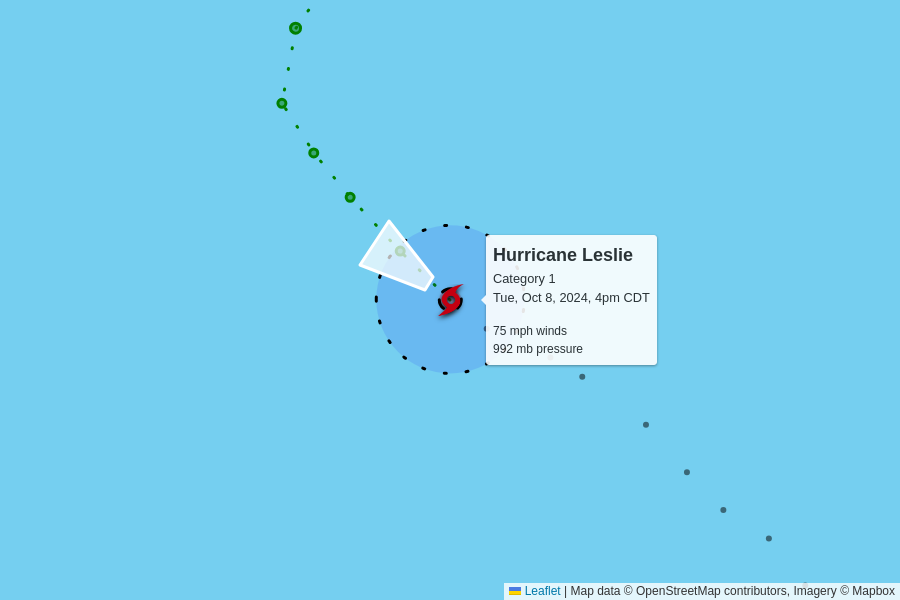
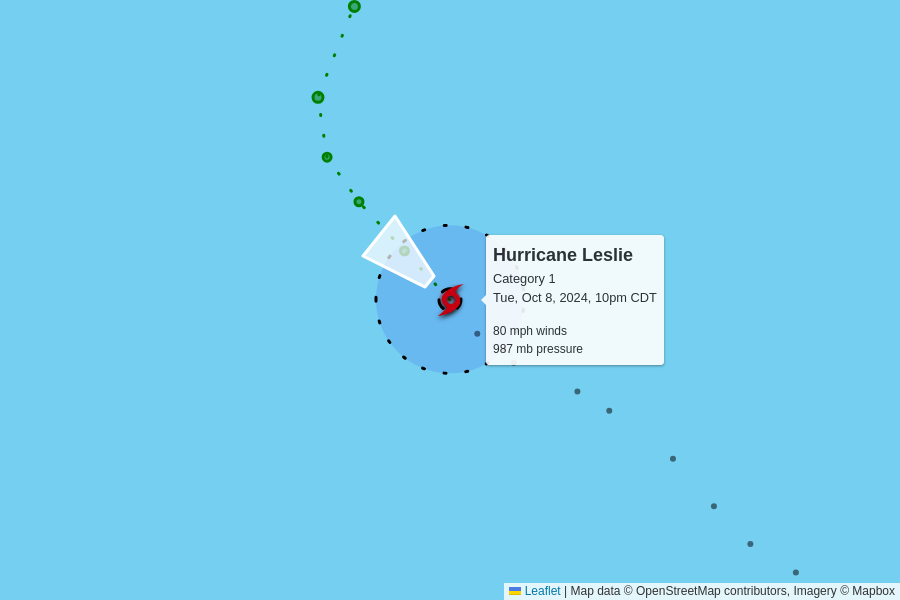
automatic update

diff --git a/docs/index.html b/docs/index.html
@@ -101,10 +101,10 @@
 
     <table>
       <tr>
-        <td colspan="6" class="storm category-5" >
+        <td colspan="6" class="storm category-1" >
           <h2>
-            Hurricane Milton - Category 5
-            <p class="updated">last updated <span data-time>2024-10-09T00:00:00.000Z</span></p>
+            Hurricane Leslie - Category 1
+            <p class="updated">last updated <span data-time>2024-10-09T03:00:00.000Z</span></p>
           </h2>
         </td>
       </tr>
@@ -119,21 +119,21 @@
       </tr>
       <tr>
         <td class="spacer"></td>
-        <td>165 mph<br>0 mph since last update</td>
-        <td>902 mb<br>-3 mb since last update</td>
+        <td>80 mph<br>+5 mph since last update</td>
+        <td>987 mb<br>-5 mb since last update</td>
         <td>
-          10 mph to the east-northeast
+          12 mph to the northwest
           <br/>
-          <span style="display: inline-block; font-size: 1.5em; transform: rotate(70deg);">↑</span>
+          <span style="display: inline-block; font-size: 1.5em; transform: rotate(310deg);">↑</span>
         </td>
-        <td><a href="https://raw.githubusercontent.com/mgwalker/atlantic-hurricanes/main/data/csv/AL142024.csv">AL142024.csv</a></td>
-        <td><a href="https://www.nhc.noaa.gov/archive/2024/MILTON.shtml?">NHC advisories</a></td>
+        <td><a href="https://raw.githubusercontent.com/mgwalker/atlantic-hurricanes/main/data/csv/AL132024.csv">AL132024.csv</a></td>
+        <td><a href="https://www.nhc.noaa.gov/archive/2024/LESLIE.shtml?">NHC advisories</a></td>
       </tr>
-      <tr id="storm_AL142024" >
+      <tr id="storm_AL132024" >
         <td class="spacer">
         <td colspan="5">
           <figure>
-            <img src="AL142024.png">
+            <img src="AL132024.png">
             <figcaption>
               Map data &copy; <a href="https://www.openstreetmap.org/copyright">OpenStreetMap</a> contributors,
               Imagery &copy; <a href="https://www.mapbox.com/">Mapbox</a> |
@@ -145,10 +145,10 @@
       
 
       <tr>
-        <td colspan="6" class="storm category-1" >
+        <td colspan="6" class="storm category-5" >
           <h2>
-            Hurricane Leslie - Category 1
-            <p class="updated">last updated <span data-time>2024-10-08T21:00:00.000Z</span></p>
+            Hurricane Milton - Category 5
+            <p class="updated">last updated <span data-time>2024-10-09T03:00:00.000Z</span></p>
           </h2>
         </td>
       </tr>
@@ -163,21 +163,21 @@
       </tr>
       <tr>
         <td class="spacer"></td>
-        <td>75 mph<br>+5 mph since last update</td>
-        <td>992 mb<br>-2 mb since last update</td>
+        <td>160 mph<br>-5 mph since last update</td>
+        <td>915 mb<br>+13 mb since last update</td>
         <td>
-          14 mph to the northwest
+          12 mph to the northeast
           <br/>
-          <span style="display: inline-block; font-size: 1.5em; transform: rotate(305deg);">↑</span>
+          <span style="display: inline-block; font-size: 1.5em; transform: rotate(55deg);">↑</span>
         </td>
-        <td><a href="https://raw.githubusercontent.com/mgwalker/atlantic-hurricanes/main/data/csv/AL132024.csv">AL132024.csv</a></td>
-        <td><a href="https://www.nhc.noaa.gov/archive/2024/LESLIE.shtml?">NHC advisories</a></td>
+        <td><a href="https://raw.githubusercontent.com/mgwalker/atlantic-hurricanes/main/data/csv/AL142024.csv">AL142024.csv</a></td>
+        <td><a href="https://www.nhc.noaa.gov/archive/2024/MILTON.shtml?">NHC advisories</a></td>
       </tr>
-      <tr id="storm_AL132024" >
+      <tr id="storm_AL142024" >
         <td class="spacer">
         <td colspan="5">
           <figure>
-            <img src="AL132024.png">
+            <img src="AL142024.png">
             <figcaption>
               Map data &copy; <a href="https://www.openstreetmap.org/copyright">OpenStreetMap</a> contributors,
               Imagery &copy; <a href="https://www.mapbox.com/">Mapbox</a> |
